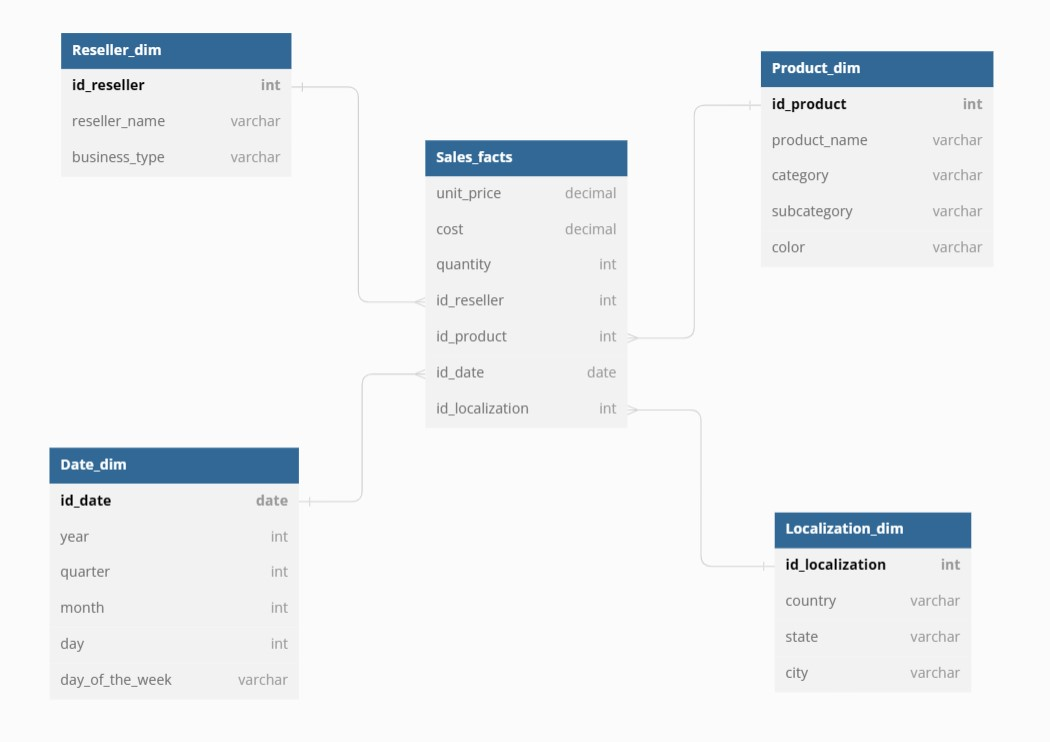
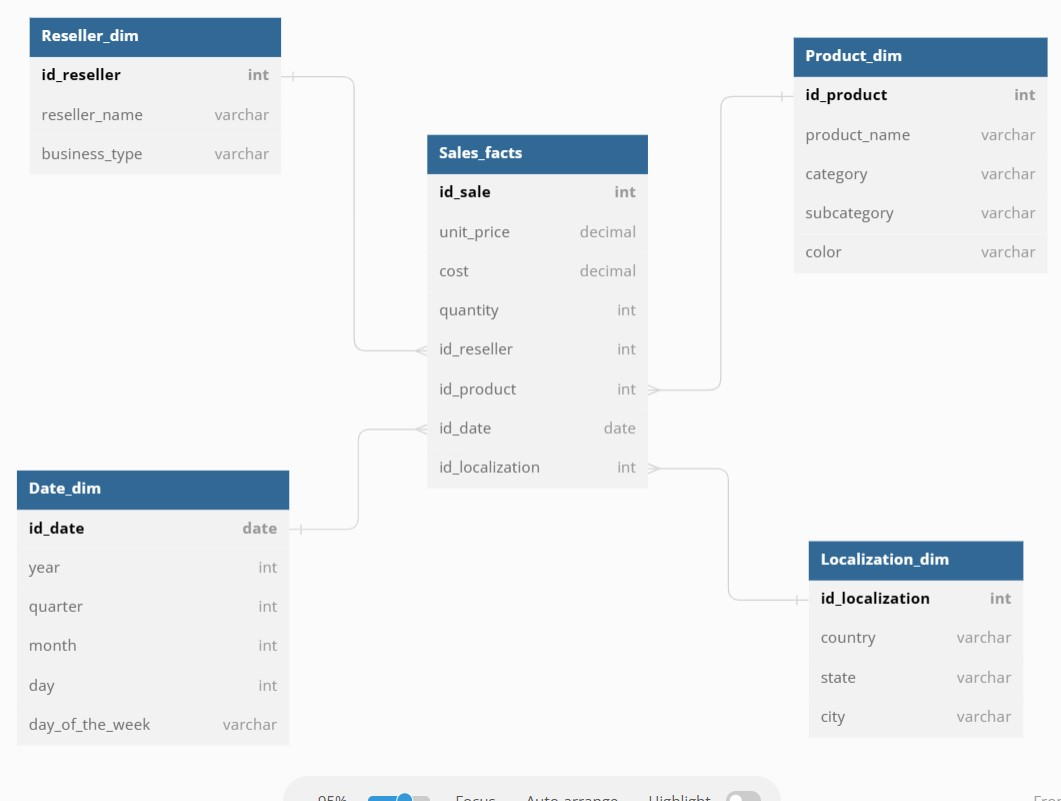
added id_sale to facts tables

diff --git a/load_sales.py b/load_sales.py
@@ -36,6 +36,9 @@ def load_sales(cursor):
     # merge sales and the merged_df to add localizationkey
     sales_df = sales_df.merge(df_merged[['ResellerKey', 'LocalizationKey']], on='ResellerKey', how='left')
 
+    # add SaleKey column to sales_df
+    sales_df = sales_df.reset_index(drop=True).reset_index().rename(columns={'index': 'SaleKey'})
+    sales_df['SaleKey'] += 1
 
     # Convert data to load it in postgres
     sales_df["Quantity"] = sales_df["Quantity"].astype(str)
@@ -44,13 +47,14 @@ def load_sales(cursor):
     sales_df["ProductKey"] = sales_df["ProductKey"].astype(str)
     sales_df["ResellerKey"] = sales_df["ResellerKey"].astype(str)
     sales_df["LocalizationKey"] = sales_df["LocalizationKey"].astype(str)
+    sales_df["SaleKey"] = sales_df["SaleKey"].astype(str)
 
     # convert dataframe in records
     records = list(sales_df.to_records(index=False))
-
+    
 
     # insert records in table Sales_facts
-    query = 'INSERT INTO "Sales_facts" (quantity, unit_price, cost, id_product, id_reseller, id_date, id_localization) VALUES (CAST(%s AS INTEGER), CAST(%s AS DECIMAL), CAST(%s AS DECIMAL), CAST(%s AS INTEGER),CAST(%s AS INTEGER), %s, CAST(%s AS INTEGER))'
+    query = 'INSERT INTO "Sales_facts" (id_sale, quantity, unit_price, cost, id_product, id_reseller, id_date, id_localization) VALUES (CAST(%s AS INTEGER), CAST(%s AS INTEGER), CAST(%s AS DECIMAL), CAST(%s AS DECIMAL), CAST(%s AS INTEGER),CAST(%s AS INTEGER), %s, CAST(%s AS INTEGER))'
     cursor.executemany(query, records)
 
 

diff --git a/create_tables.py b/create_tables.py
@@ -13,6 +13,7 @@ def create_tables():
         """,
         """
         CREATE TABLE "Sales_facts" (
+          "id_sale" int PRIMARY KEY,
           "unit_price" decimal,
           "cost" decimal,
           "quantity" int,
